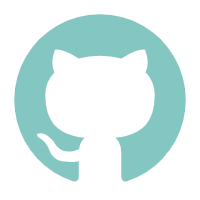
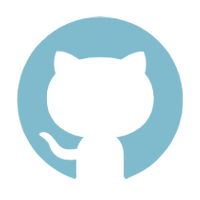
🚀ADD: VideoPage

diff --git a/index.html b/index.html
@@ -8,7 +8,6 @@
   <link rel="stylesheet" href="src/main.css">
   <link rel="stylesheet" href="src/style.css">
   <link media="(max-width: 800px)" rel="stylesheet" href="src/mobile.css">
-  <script src="https://cdn.bootcdn.net/ajax/libs/jquery/3.5.1/jquery.min.js"></script>
   <title>Home</title>
 </head>
 
@@ -37,6 +36,9 @@
         <a href="http://note.fzf404.top" target="_blank">
           <img src="public/links/note.png" alt="Note" title="Note">
         </a>
+        <a href="http://video.fzf404.top" target="_blank">
+          <img src="public/links/movie.png" alt="Note" title="Video">
+        </a>
       </div>
     </div>
 
@@ -63,7 +65,7 @@
       </div>
       <div class="avatar">
         <a href="#">
-          <img src="public/links/null.png" alt="Github">
+          <img src="public/links/empty.png" alt="Github">
         </a>
       </div>
 

diff --git a/src/style.scss b/src/style.scss
@@ -22,7 +22,7 @@
       font-size  : 2.2em;
       /* offset-x | offset-y | blur-radius | color */
       text-shadow: 1px 1px 2px rgba(2, 80, 81, 0.4);
-      color      : #699;
+      color      : #6294b2;
     }
   }
 
@@ -30,7 +30,7 @@
   .link {
 
     a {
-      margin: auto 20px;
+      margin: auto 10px;
 
       img {
         width : 80px;

diff --git a/src/style.css b/src/style.css
@@ -21,10 +21,10 @@
   font-size: 2.2em;
   /* offset-x | offset-y | blur-radius | color */
   text-shadow: 1px 1px 2px rgba(2, 80, 81, 0.4);
-  color: #699;
+  color: #6294b2;
 }
 .me .link a {
-  margin: auto 20px;
+  margin: auto 10px;
 }
 .me .link a img {
   width: 80px;

diff --git a/src/main.css b/src/main.css
@@ -31,7 +31,7 @@ p {
 
 .avatar a img {
   border-radius: 80px;
-  border: 6px solid #9bbc;
+  border: 6px solid #8bc;
 }
 
 /*# sourceMappingURL=main.css.map */

diff --git a/src/main.scss b/src/main.scss
@@ -33,6 +33,6 @@ p {
 .avatar{
   a img {
   border-radius: 80px;
-  border: 6px solid #9bbc;
+  border: 6px solid #8bc;
   }
 }
